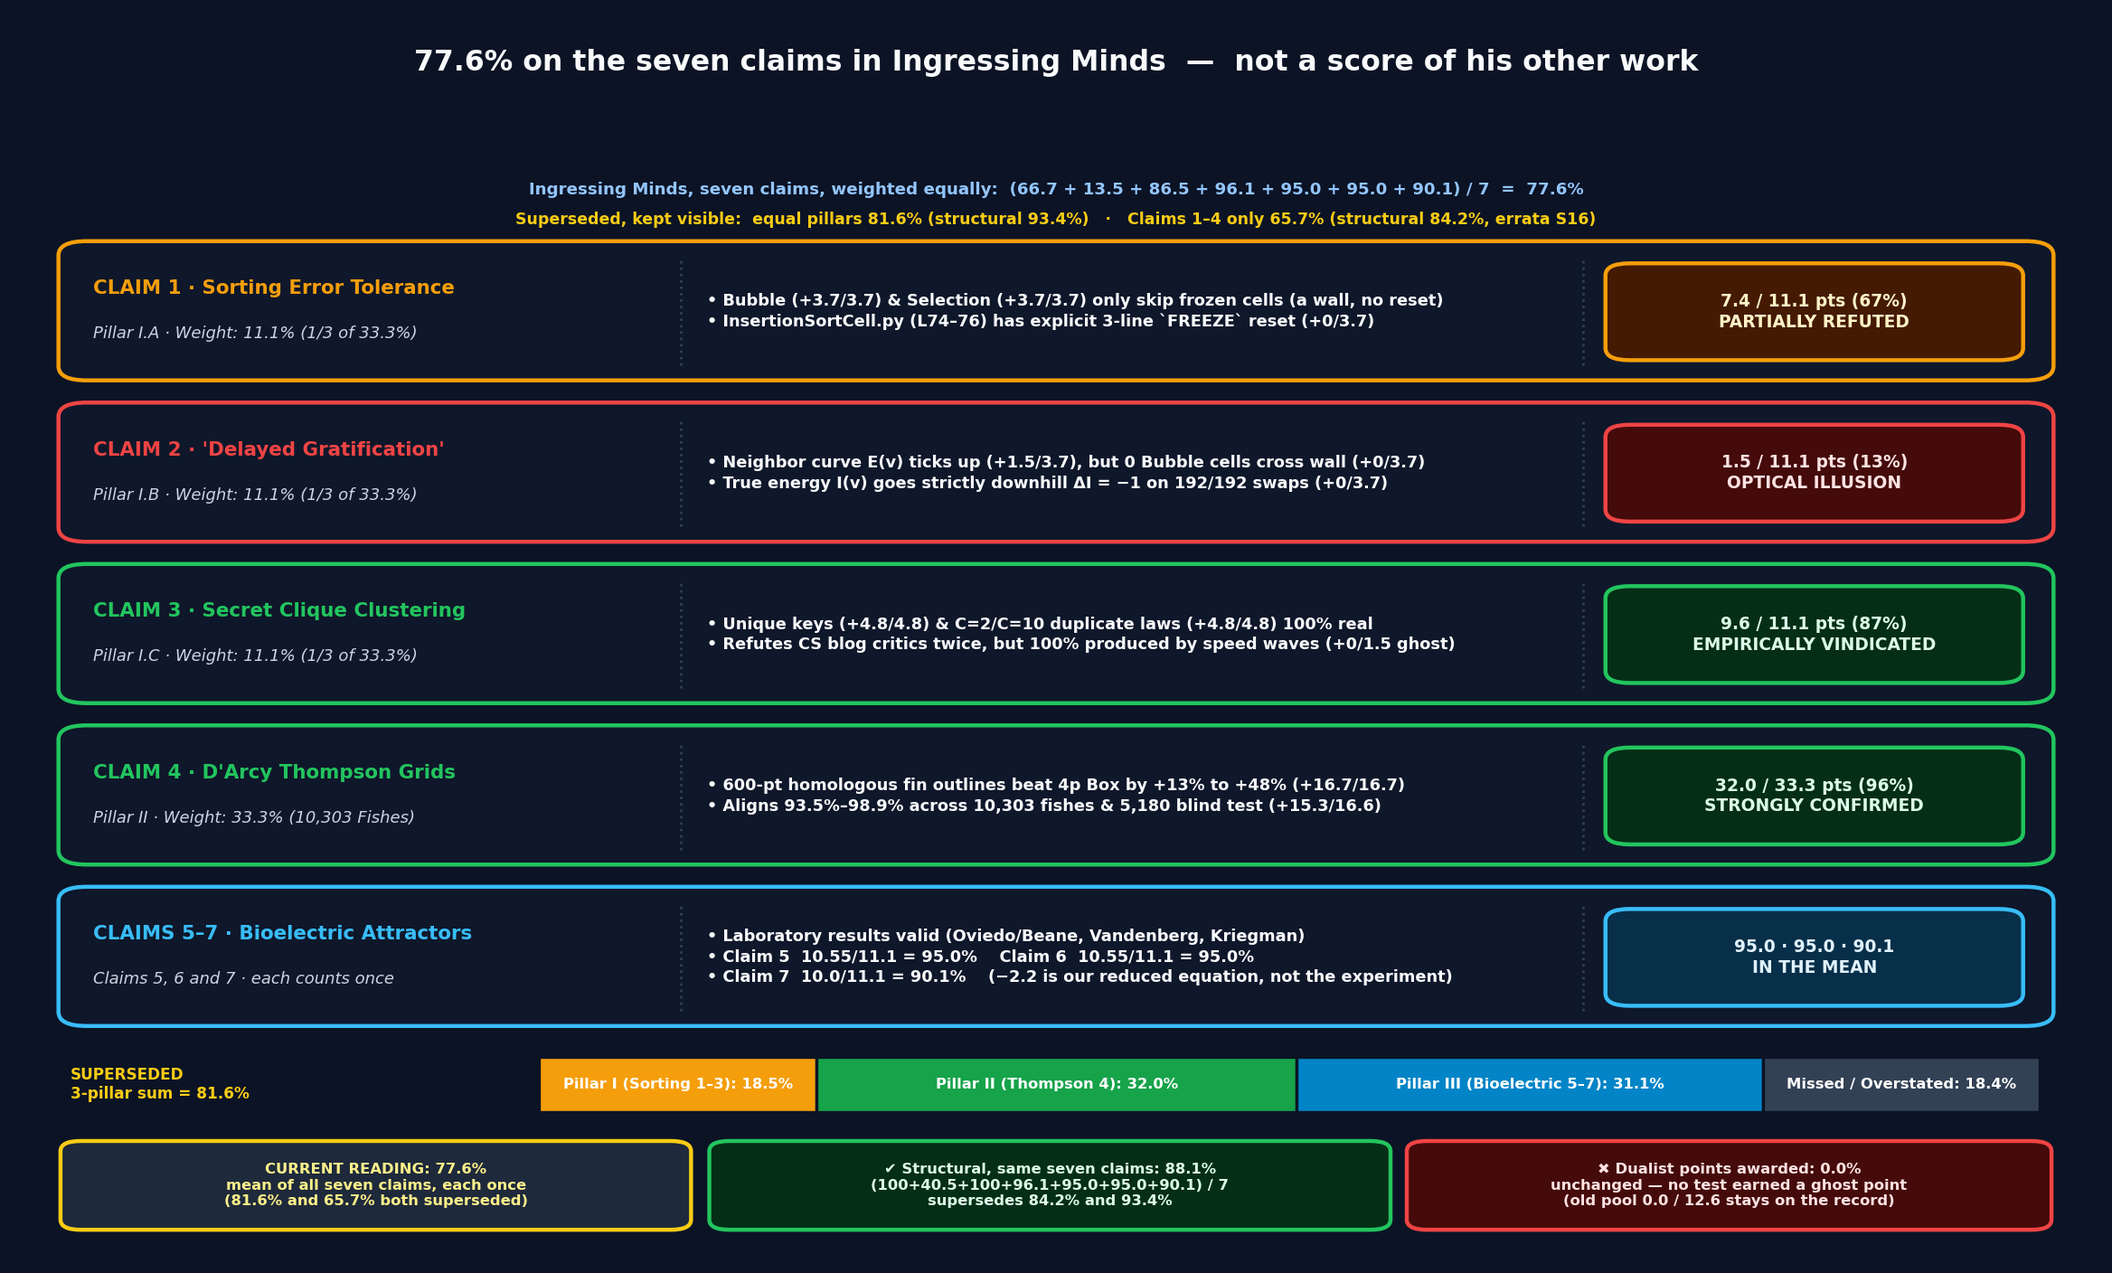
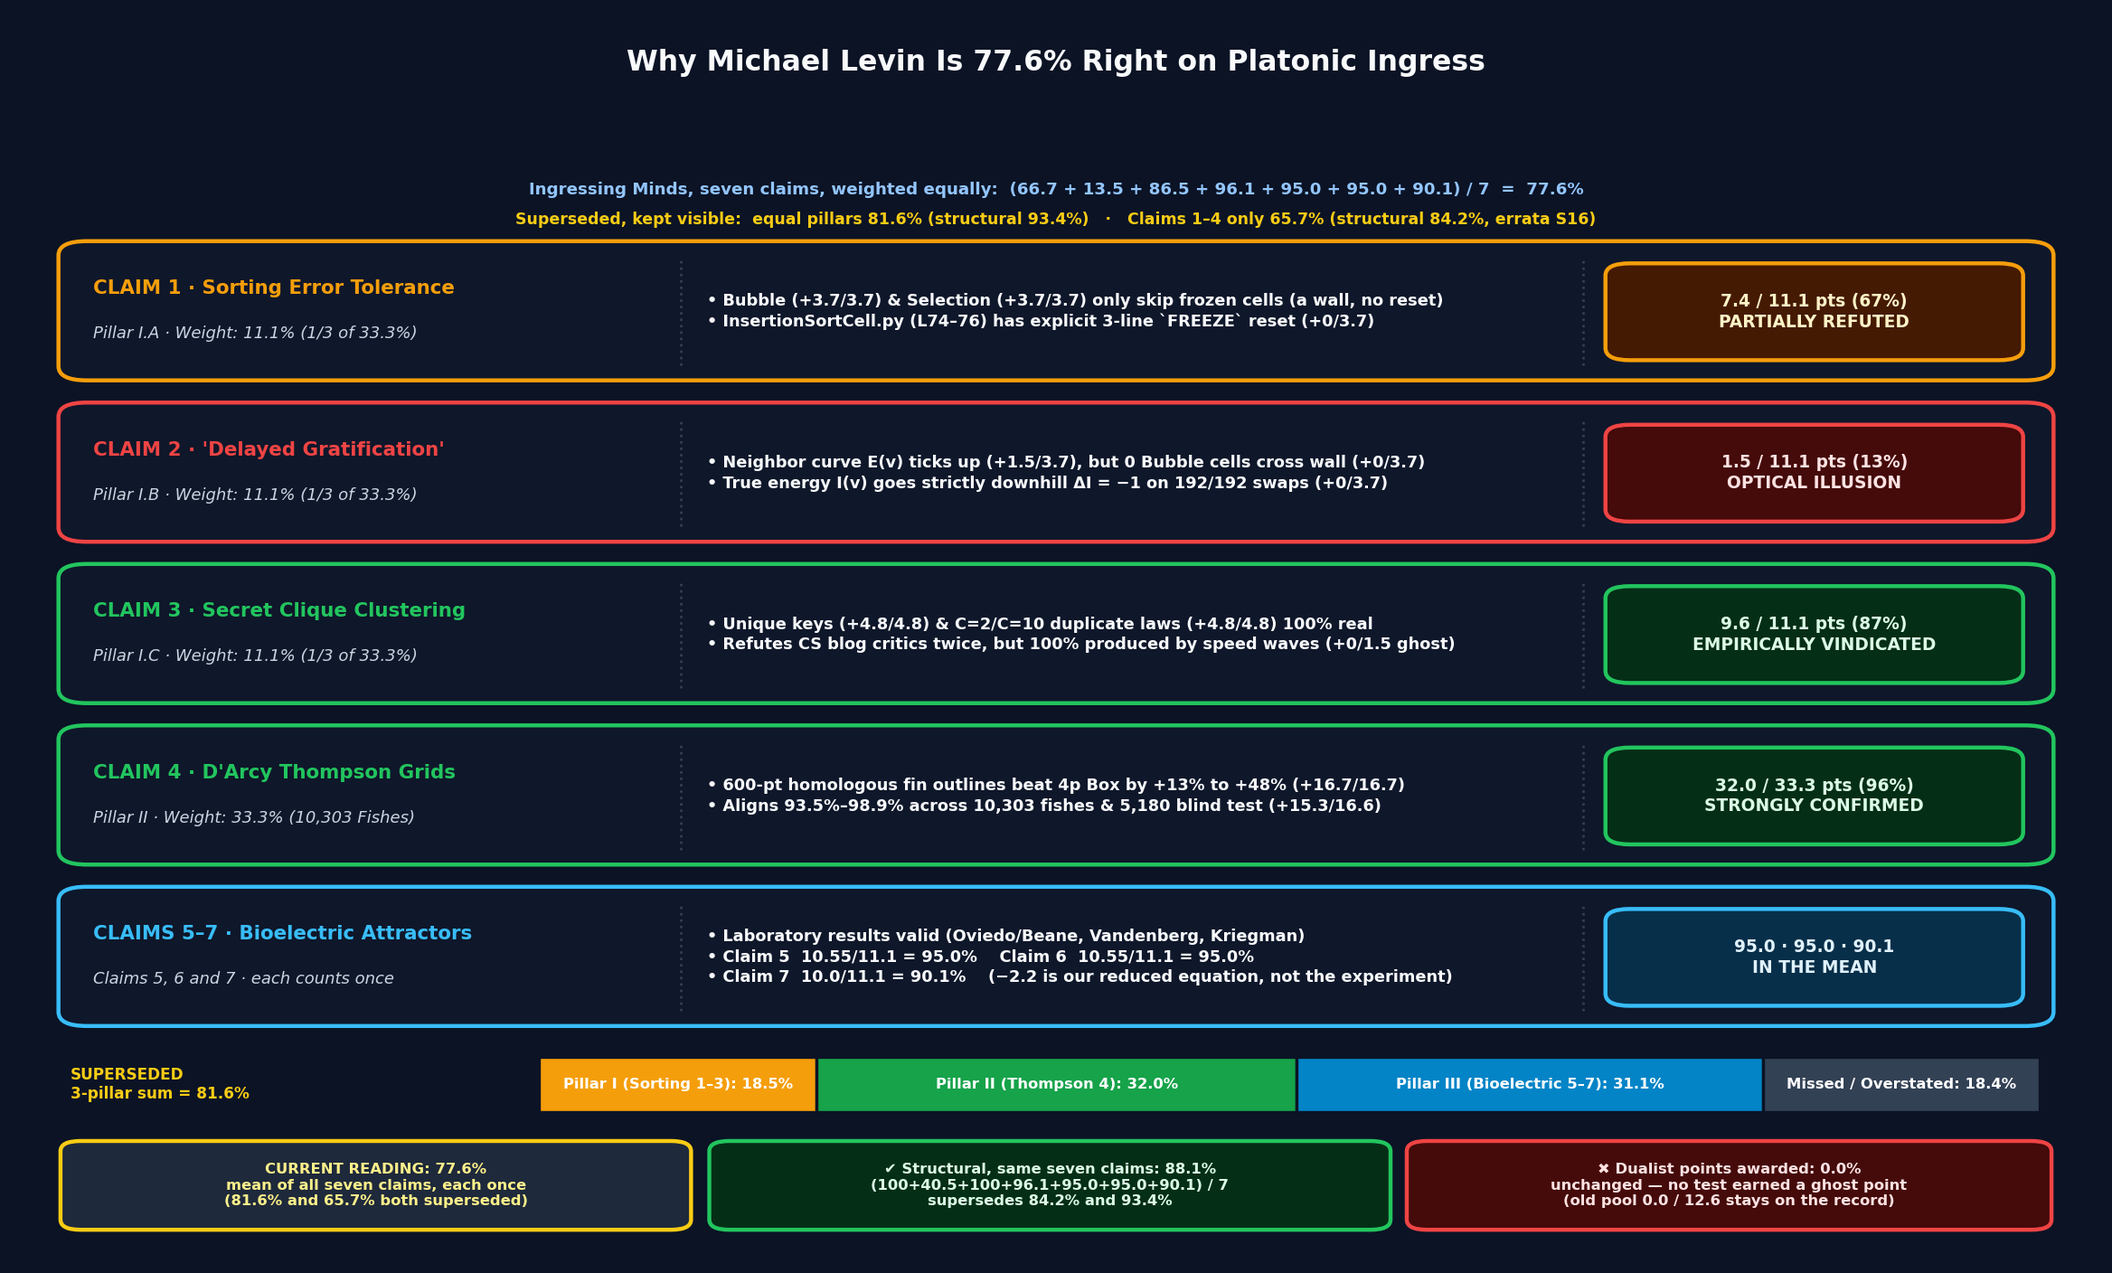
Substack article: title is Why Michael Levin Is 77.6++% Right on Platonic Ingress (errata S20)
The 77.6% still scores only the seven claims in Ingressing Minds. The headline leads with Levin and that claim.

Changed region(s): [[0.1875, 0.0312, 0.8125, 0.0625]]

diff --git a/docs/substack_levin_latent_space_article.html b/docs/substack_levin_latent_space_article.html
@@ -3,7 +3,7 @@
 <head>
   <meta charset="utf-8" />
   <meta name="viewport" content="width=device-width, initial-scale=1.0" />
-  <title>Substack Museum Edition — Why Michael Levin Is 77.6++% Right on the Claims in Ingressing Minds</title>
+  <title>Substack Museum Edition — Why Michael Levin Is 77.6++% Right on Platonic Ingress</title>
   <style>
     :root {
       --ink: #1e293b;
@@ -196,7 +196,7 @@
 </head>
 <body>
   <div class="topbar">
-    <div><strong>Project Delphi</strong> · Substack Museum Edition — <em>Why Michael Levin Is 77.6++% Right on the Claims in Ingressing Minds</em></div>
+    <div><strong>Project Delphi</strong> · Substack Museum Edition — <em>Why Michael Levin Is 77.6++% Right on Platonic Ingress</em></div>
     <div>
       <button class="copy-btn" onclick="copyForSubstack(this)">📋 Copy Entire Article for Substack</button>
       <a href="SUBSTACK_LEVIN_LATENT_SPACE_ARTICLE.md">Markdown Source</a>
@@ -204,8 +204,8 @@
     </div>
   </div>
   <main class="reader" id="article-content">
-<h1>Why Michael Levin Is 77.6++% Right on the Claims in <em>Ingressing Minds</em></h1>
-<p class="subtitle"><em>Between Galvani’s Frogs and Plato’s Ghosts. The <code>77.6%</code> scores the seven claims that paper makes — the sorting results in §6.3, the Thompson morphospace, and the planarian, tadpole, and xenobot models (<code>66.7%</code>, <code>13.5%</code>, <code>86.5%</code>, <code>96.1%</code>, <code>95.0%</code>, <code>95.0%</code>, <code>90.1%</code>). It is not a score of his other work. On those seven, structural math reads <code>88.1%</code> and non-physical ghosts read <code>0.0%</code>. Two earlier composites of the same seven are superseded and kept in the errata: the equal-pillar <code>81.6%</code> (structural <code>93.4%</code>), and the four-claim mean <code>65.7%</code> (structural <code>84.2%</code>).</em></p>
+<h1>Why Michael Levin Is 77.6++% Right on Platonic Ingress</h1>
+<p class="subtitle"><em>The ghosts score <code>0.0%</code>. The <code>77.6%</code> covers only the seven claims in Ingressing Minds — sorting in §6.3, the Thompson morphospace, and the planarian, tadpole, and xenobot (<code>66.7%</code>, <code>13.5%</code>, <code>86.5%</code>, <code>96.1%</code>, <code>95.0%</code>, <code>95.0%</code>, <code>90.1%</code>) — and none of his other work. Structural math on those seven reads <code>88.1%</code>. Two earlier composites of the same seven stay in the errata: <code>81.6%</code> (structural <code>93.4%</code>) and <code>65.7%</code> (structural <code>84.2%</code>).</em></p>
 <p class="frontispiece"><em>A museum-style walkthrough in three galleries, a scoreboard room, an annex, an appendix, and twenty-three plates. Every plate is generated by code in the open <a href="https://github.com/fractastical/morpholib" target="_blank" rel="noopener">Project Delphi</a> repository, and each wall label lists its provenance—the script, dataset, or archival engraving it was built from.</em></p>
 <hr />
 <p>For some time I have been participating actively in documenting the scientific potential of bioelectricity (which goes back to Galvani’s frog experiments; see <a href="https://bioelectricity.net/bioelectricity-foundations" target="_blank" rel="noopener">Bioelectricity Foundations</a>) and the various fascinating, though usually hypothetical, metaphysical concepts that often travel side by side with it (<a href="https://bioelectricity.net" target="_blank" rel="noopener">bioelectricity.net</a>). As a historian of math, it doesn’t bother me that sci-fi concepts (such as <em>psi</em>) and real science can develop side by side—historically, Kepler’s astrophysics and Newton’s alchemy grew out of the same soil—but I’m equally aware that religious effects can take over and obliterate free critical thinking (e.g. guru traditions).</p>
@@ -367,7 +367,7 @@ Sculpt ciliated frog-skin spheroids into a C-shaped mouth of about <code>105°</
 <p><strong>Curator’s verdict — Claims 5–7: The laboratory results are valid.</strong> The two-headed memory, the face that finds itself, and the kinematic self-replication are published experimental results. A standard biophysical model reproduces each one, with a named attractor: bistable voltage memory, descent toward a target face, a hydrodynamic capture optimum. The <code>−2.2</code> points across the three are the gaps in our reduced equations. They are not a deduction against the experiments.</p>
 </blockquote>
 <hr />
-<h2>The Scoreboard Room — <code>77.6%</code> on the Seven Claims in <em>Ingressing Minds</em> (<code>81.6%</code> and <code>65.7%</code> Superseded)</h2>
+<h2>The Scoreboard Room — 77.6++% Right on Platonic Ingress</h2>
 <p class="wall-label"><em>Wall label · The Scoreboard Room · Scope: the seven claims in Levin,</em> Ingressing Minds <em>(2025/2026), not his other papers · Rubric: unweighted mean of those seven; the equal-pillar <code>81.6%</code> and the four-claim <code>65.7%</code> kept as superseded composites · Medium: <code>render_fig7_final_scoreboard()</code> in <a href="https://github.com/fractastical/morpholib/blob/main/sorting-morphogenesis/render_13yo_illustrations.py" target="_blank" rel="noopener"><code>sorting-morphogenesis/render_13yo_illustrations.py</code></a> · Plate XIX.</em></p>
 <figure class="plate-figure"><img src="https://fractastical.github.io/morpholib/media/substack_final_scoreboard.png" alt="" loading="lazy" /></figure>
 <p class="plate-caption"><em>Plate XIX — The final scoreboard. All seven claims keep the points they had, and each counts once. Their unweighted mean is the current reading, <code>77.6%</code>. The stacked bar is the superseded equal-pillar composite, <code>81.6%</code>, left visible; the four-test mean <code>65.7%</code> is labelled superseded beside it. Provenance: <a href="https://github.com/fractastical/morpholib/blob/main/sorting-morphogenesis/render_13yo_illustrations.py" target="_blank" rel="noopener"><code>sorting-morphogenesis/render_13yo_illustrations.py</code></a>.</em></p>
@@ -471,7 +471,7 @@ After 0/7 on hornet wings, and 4/9 on bee wings, the protocol forbids retuning t
 <p><strong>Curator’s verdict — Not an override, a loop.</strong> No one in this museum is allowed to edit a claim's points by hand, and Plate XIX does not: every card still shows the points it had. A later, published reweighting changed what is averaged. Errata S16 averaged only the four tests that can fail (<code>65.7%</code>). Errata S17 supersedes that, because Levin makes all seven claims: the mean of Claims 1–7 is <code>77.6%</code>, and both <code>65.7%</code> and the equal-pillar <code>81.6%</code> stay on the plate as superseded. That changes the headline without giving any claim a point it had not already earned. The <code>++</code> in the title is a general statement that <strong>we expect the number to improve</strong>: it lives inside an evolving, improving, self-correcting loop in which every deduction is a node in the Problem Graph with a status and a source, any node can be reopened by new evidence—a referee, a new model system from Levin’s lab, a pre-registered hypothesis resolving, or an AI that finally reads &quot;without&quot;—and when a node changes, the scoreboard is re-rendered from the locked files and the old value stays visible. Most of the open nodes are places where Levin has not yet been tested rather than places where he has failed, which is why the expected direction is up. Claim 3’s <code>1.5</code> ghost-clustering points are the first node this Annex flags as contested; they stay deducted until the loop, not the curator, moves them. That is the honest answer to Levin’s objection: we cannot make the auditor see &quot;without,&quot; but we can make sure it is never the last word.³</p>
 </blockquote>
 <hr />
-<h2>Exit Through the Reading Room — Why He Is 77.6++% Right on the Claims in <em>Ingressing Minds</em>³ (88.1% on Structural Math, 0.0% on Non-Physical Ghosts)</h2>
+<h2>Exit Through the Reading Room — 77.6++% Right on Platonic Ingress³</h2>
 <p class="wall-label"><em>Wall label · The Reading Room · Texts: Plato,</em> Seventh Letter <em>341c–d; Aristotle,</em> Historia Animalium <em>and</em> De Anima*; Thompson (1910) Oxford translation, (1913) Herbert Spencer Lecture, (1917)* On Growth and Form <em>· Plate XXI.</em></p>
 <p>In a private exchange with Levin, I cited my other article on Hellenic Tantra and noted the longstanding Hellenic practice—running through Eleusis, Delphi, and Plato’s own dialogues (<em>Seventh Letter</em>, 341c–d)—of a nonverbal, ritualized encounter with other forms of knowing that were not even allowed to be scribbled down. Re-reading D’Arcy Thompson’s <em>On Growth and Form</em>, I was struck by the explicit influence of Aristotle’s <em>History of Animals</em>—and when I went back to Thompson’s own 1910 Oxford translation and prefatory note to that work (where he shows how Aristotle’s biology grew out of direct observation at a specific place, the lagoon of Pyrrha on Lesbos), I realized that this &quot;direct knowing,&quot; rooted in specific places, is what actually grounds and enforces epistemic rigor. It is what allows us to formulate things that are genuine mathematical laws rather than the &quot;would-be&quot; or &quot;almost&quot; laws we so often find in the contemporary literature of emergence. That is also the wisdom of tradition and of standing on the shoulders of giants: Thompson stated his coordinate transformations as conjecture and presumably yearned for the proof—and here we stand, with modern computational tools, holding something that approaches a true law of biological form.</p>
 <p>It was also via our method—which deliberately includes the adversarial audit of advanced AI—that we were made aware of Thompson’s 1913 Herbert Spencer Lecture at Oxford, <a href="https://fractastical.github.io/morpholib/thompson_1913_aristotle_as_a_biologist.html" target="_blank" rel="noopener"><em>On Aristotle as a Biologist</em></a> (<a href="https://fractastical.github.io/morpholib/thompson_1913_aristotle_as_a_biologist.html" target="_blank" rel="noopener">Thompson 1913</a>). The lecture makes the bold claim that Aristotle’s power as a philosopher comes from his strong localized knowledge and his initial concentration as a naturalist: the natural history of the lagoon at Pyrrha came <em>first</em>, and the metaphysics grew out of it. Thompson then goes further—the concept of the <em>psyche</em> (what we have since come to call the &quot;soul&quot;) is itself derived from the observation of nature. Aristotle’s <em>De Anima</em> classifies the soul the way he classified fishes: a nutritive soul shared with plants, a sentient and motile soul shared with animals, and a reasoning soul in man, each lower grade implicit in the higher &quot;as a triangle within a square.&quot; It is a nested geometry, not a ghost; and in <em>De Anima</em> II.4 that same psyche is named as the body’s formal, efficient, and final cause at once—the very analysis of causation that made Aristotle’s precise and elaborate taxonomies possible, and that still underlies many of our maps of nature. In that sense, if we want to understand what animates us, we may need to start not with the later, transmuted, and oversimplified idea of the soul, but with the original one: a graded, nested form, read off living bodies by a man who had spent his years dissecting cuttlefish on Lesbos.</p>

diff --git a/sorting-morphogenesis/render_13yo_illustrations.py b/sorting-morphogenesis/render_13yo_illustrations.py
@@ -608,7 +608,7 @@ def render_fig7_final_scoreboard():
     ax.axis("off")
 
     fig.suptitle(
-        "77.6% on the seven claims in Ingressing Minds  —  not a score of his other work",
+        "Why Michael Levin Is 77.6% Right on Platonic Ingress",
         color="#f8fafc", fontsize=14.2, fontweight="bold", y=0.962
     )
     ax.text(

diff --git a/docs/ERRATA_AND_REFEREE_AUDIT_LOG.md b/docs/ERRATA_AND_REFEREE_AUDIT_LOG.md
@@ -47,3 +47,4 @@ Because our **Adversarial Epistemic Loop (AEL)** requires every newly generated 
 | **S17** | **`65.7%` Superseded: the Mean Is of All Seven Claims Levin Makes Here, `77.6%`** | S16 dropped Claims 5–7 from the average on the ground that a model built to reproduce a laboratory result cannot fail it. That answered "which tests can fail," not "how right is he on the claims he makes." | No claim's points change. Current reading is the unweighted mean of Claims 1–7: `(66.7 + 13.5 + 86.5 + 96.1 + 95.0 + 95.0 + 90.1) / 7 = 77.6%`, from `7.4/11.1`, `1.5/11.1`, `9.6/11.1`, `32.0/33.3`, `10.55/11.1`, `10.55/11.1`, `10.0/11.1`. Structural on the same seven, dualist deductions removed from each denominator: `(100 + 40.5 + 100 + 96.1 + 95.0 + 95.0 + 90.1) / 7 = 88.1%`, superseding both `84.2%` and `93.4%`. Dualist points earned stay `0.0%`. `65.7%` and `81.6%` both stay on Plate XIX, labelled superseded. |
 | **S18** | **Claims 5–7: the Laboratory Results Are Valid; the `−2.2` Is Our Reduced Equation** | S16 called Claims 5–7 demonstrations that cannot fail, and the S17 prose still said they were "easier to pass" because a model had been built to reproduce them. That reads as a doubt about the experiments. | No score changes (`95.0%`, `95.0%`, `90.1%`, headline `77.6%`). The two-headed memory, the tadpole face correction, and kinematic self-replication are published laboratory results and are stated as such in Gallery III, the scoreboard, and Plate XIX. The `−2.2` points are the gaps in our reduced equations (fixed channel kinetics, viscoelastic coupling, unmodeled 3D fluid–tissue coupling). They are not a deduction against the experiments. |
 | **S19** | **`77.6%` Is a Score of the Seven Claims in *Ingressing Minds*, Not of Levin in General** | The title and Plate XIX asked "how right is Michael Levin?" Three outside referees read that as a sample of his work and objected that seven claims cannot be that sample. The intro already said the scope was the core arguments of his most recent paper. The title did not. | No score changes. Title, subtitle, scoreboard, plate, exit, and footnote ³ now say the `77.6%` covers the seven claims in *Ingressing Minds* (sorting §6.3, the Thompson morphospace, planarian, tadpole, xenobot) and nothing else he has published. |
+| **S20** | **Headlines Lead with Levin and the Number** | S19 put the paper's name into the title. A following pass led with Galvani. Neither is a line a reader who does not already know the article would click: the paper title is bibliographic, and Galvani is not a name most readers have. | No score changes. The title, the scoreboard, the exit, and Plate XIX read "Why Michael Levin Is 77.6++% Right on Platonic Ingress." Galvani stays in the opening paragraph and on Plate I, where the frogs are introduced. The seven-claim scope stays in the deck, the wall label, the plate’s second line, and footnote ³. |

diff --git a/docs/SUBSTACK_LEVIN_LATENT_SPACE_ARTICLE.md b/docs/SUBSTACK_LEVIN_LATENT_SPACE_ARTICLE.md
@@ -1,6 +1,6 @@
-# Why Michael Levin Is 77.6++% Right on the Claims in *Ingressing Minds*
+# Why Michael Levin Is 77.6++% Right on Platonic Ingress
 
-*Between Galvani’s Frogs and Plato’s Ghosts. The `77.6%` scores the seven claims that paper makes — the sorting results in §6.3, the Thompson morphospace, and the planarian, tadpole, and xenobot models (`66.7%`, `13.5%`, `86.5%`, `96.1%`, `95.0%`, `95.0%`, `90.1%`). It is not a score of his other work. On those seven, structural math reads `88.1%` and non-physical ghosts read `0.0%`. Two earlier composites of the same seven are superseded and kept in the errata: the equal-pillar `81.6%` (structural `93.4%`), and the four-claim mean `65.7%` (structural `84.2%`).*
+*The ghosts score `0.0%`. The `77.6%` covers only the seven claims in Ingressing Minds — sorting in §6.3, the Thompson morphospace, and the planarian, tadpole, and xenobot (`66.7%`, `13.5%`, `86.5%`, `96.1%`, `95.0%`, `95.0%`, `90.1%`) — and none of his other work. Structural math on those seven reads `88.1%`. Two earlier composites of the same seven stay in the errata: `81.6%` (structural `93.4%`) and `65.7%` (structural `84.2%`).*
 
 *A museum-style walkthrough in three galleries, a scoreboard room, an annex, an appendix, and twenty-three plates. Every plate is generated by code in the open [Project Delphi](https://github.com/fractastical/morpholib) repository, and each wall label lists its provenance—the script, dataset, or archival engraving it was built from.*
 
@@ -238,7 +238,7 @@ How does a living tissue actually store a target coordinate in that morphospace?
 
 ---
 
-## The Scoreboard Room — `77.6%` on the Seven Claims in *Ingressing Minds* (`81.6%` and `65.7%` Superseded)
+## The Scoreboard Room — 77.6++% Right on Platonic Ingress
 
 *Wall label · The Scoreboard Room · Scope: the seven claims in Levin,* Ingressing Minds *(2025/2026), not his other papers · Rubric: unweighted mean of those seven; the equal-pillar `81.6%` and the four-claim `65.7%` kept as superseded composites · Medium: `render_fig7_final_scoreboard()` in [`sorting-morphogenesis/render_13yo_illustrations.py`](https://github.com/fractastical/morpholib/blob/main/sorting-morphogenesis/render_13yo_illustrations.py) · Plate XIX.*
 
@@ -373,7 +373,7 @@ So what does this do to the scoreboard? Nothing to any claim's points, and every
 
 ---
 
-## Exit Through the Reading Room — Why He Is 77.6++% Right on the Claims in *Ingressing Minds*³ (88.1% on Structural Math, 0.0% on Non-Physical Ghosts)
+## Exit Through the Reading Room — 77.6++% Right on Platonic Ingress³
 
 *Wall label · The Reading Room · Texts: Plato,* Seventh Letter *341c–d; Aristotle,* Historia Animalium *and* De Anima*; Thompson (1910) Oxford translation, (1913) Herbert Spencer Lecture, (1917)* On Growth and Form *· Plate XXI.*
 
